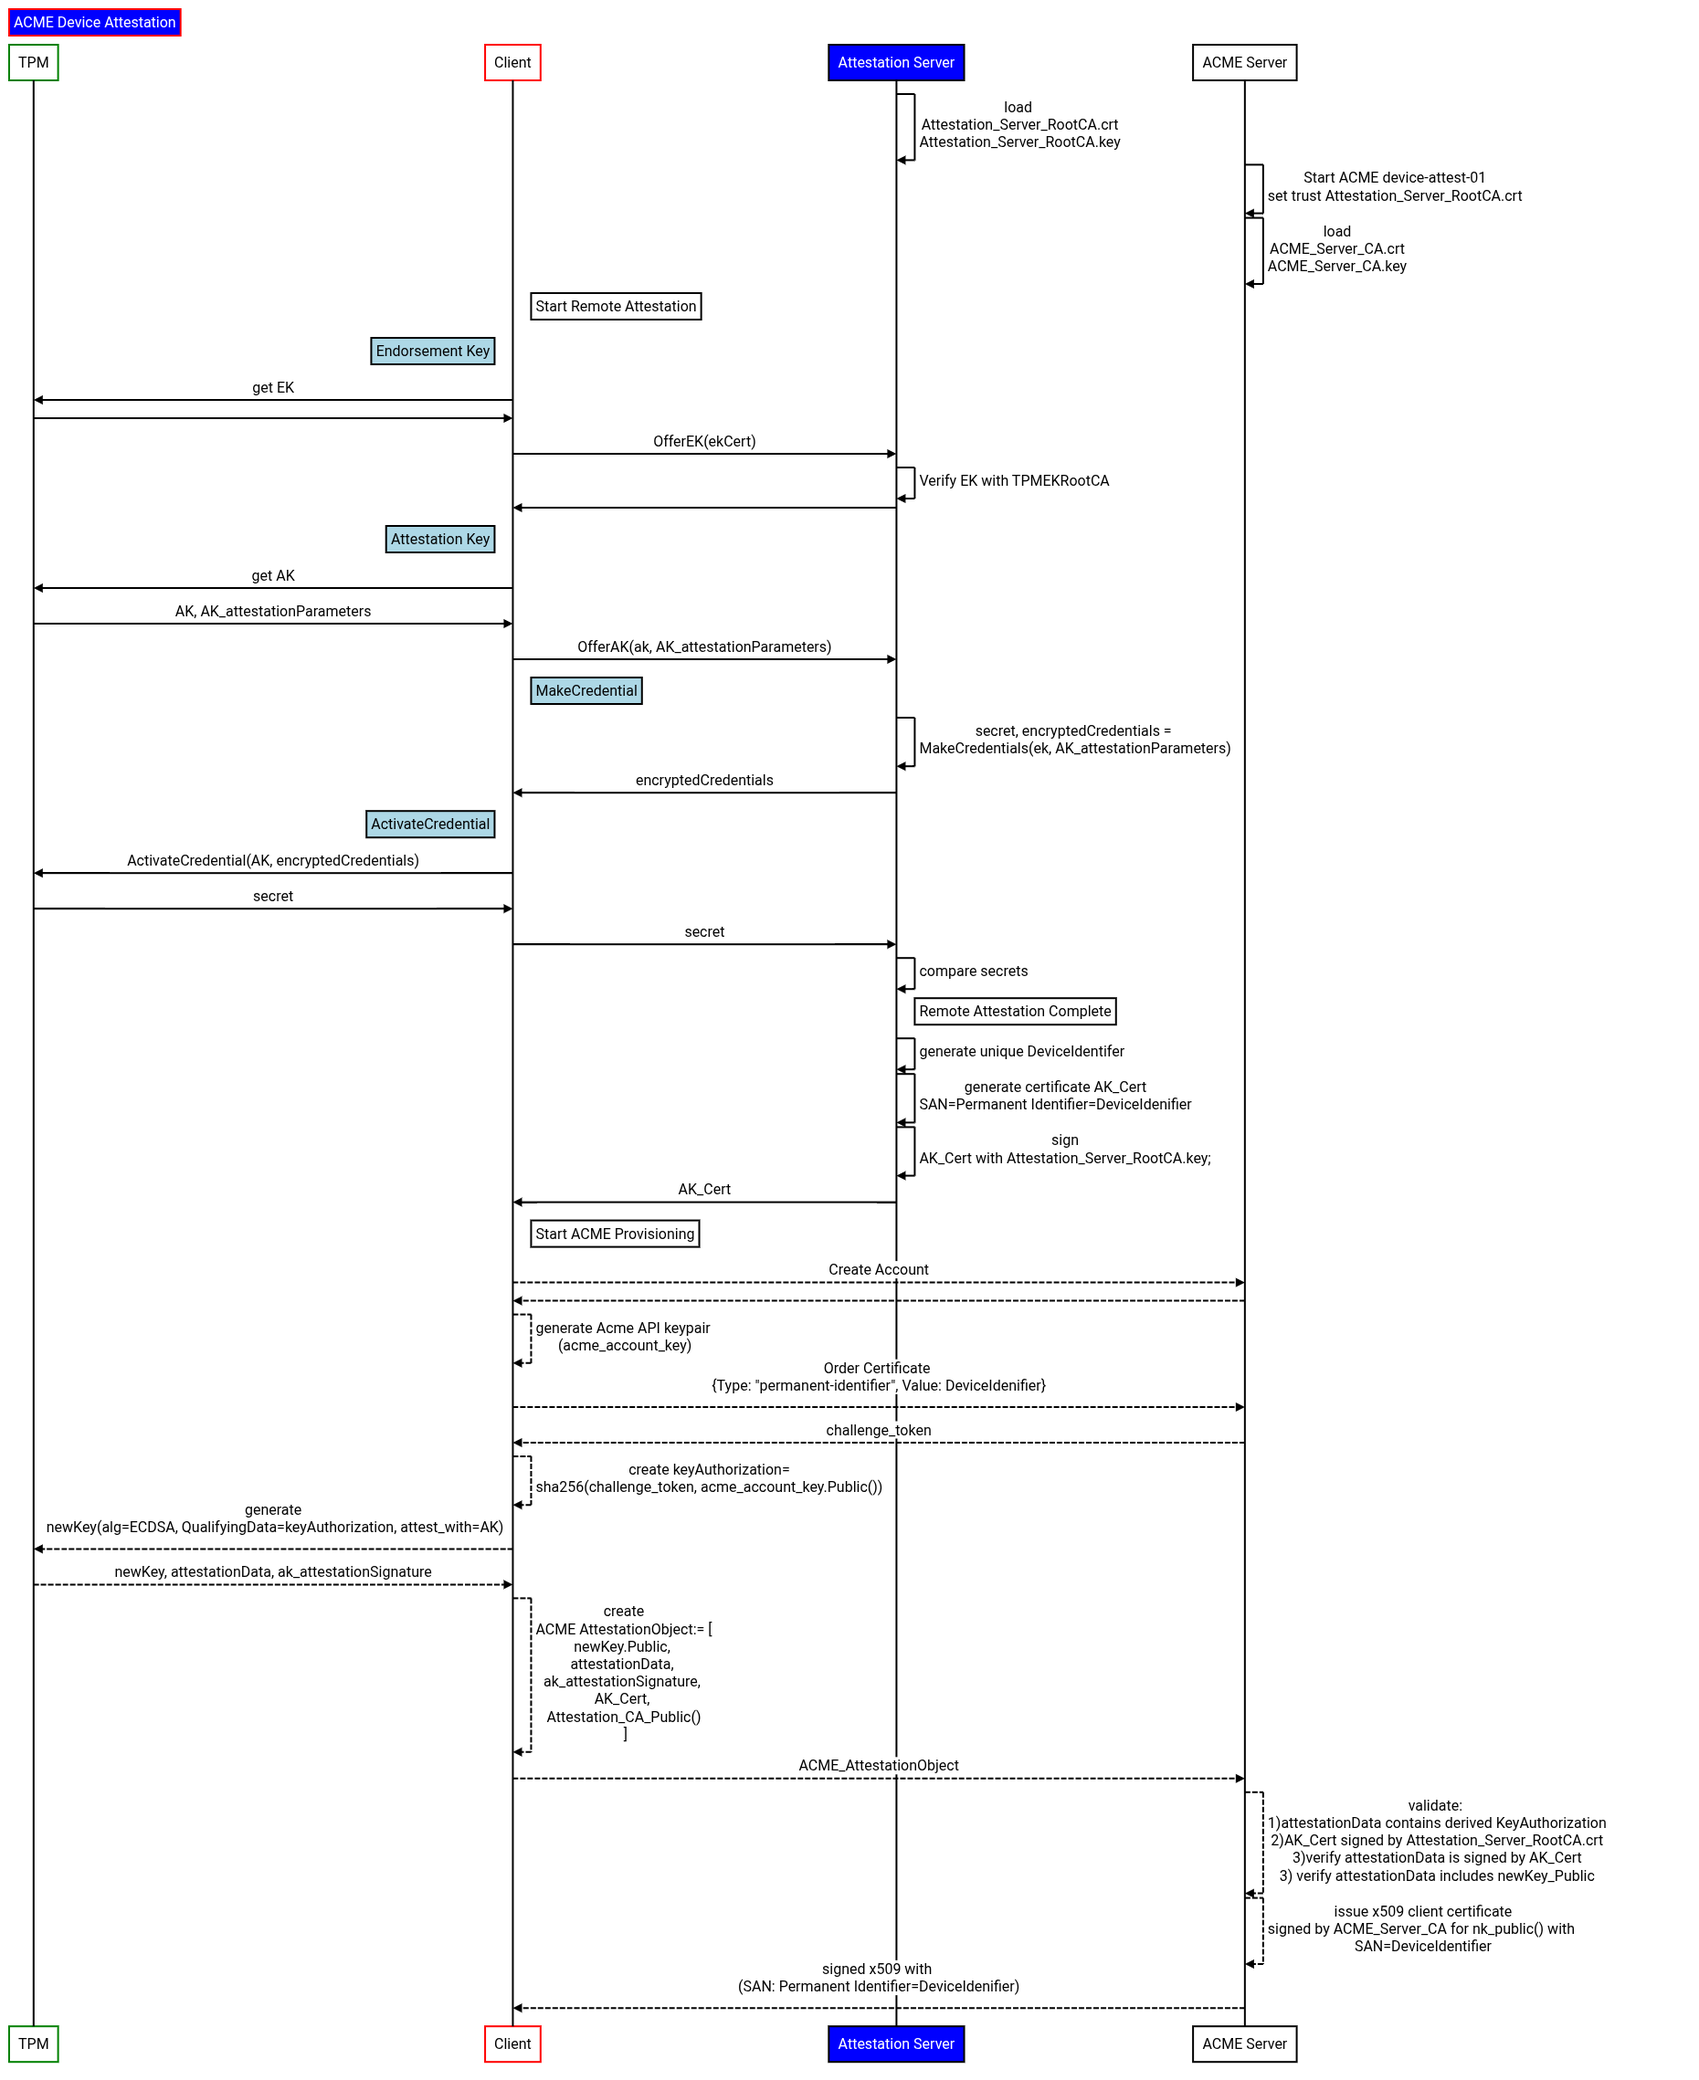
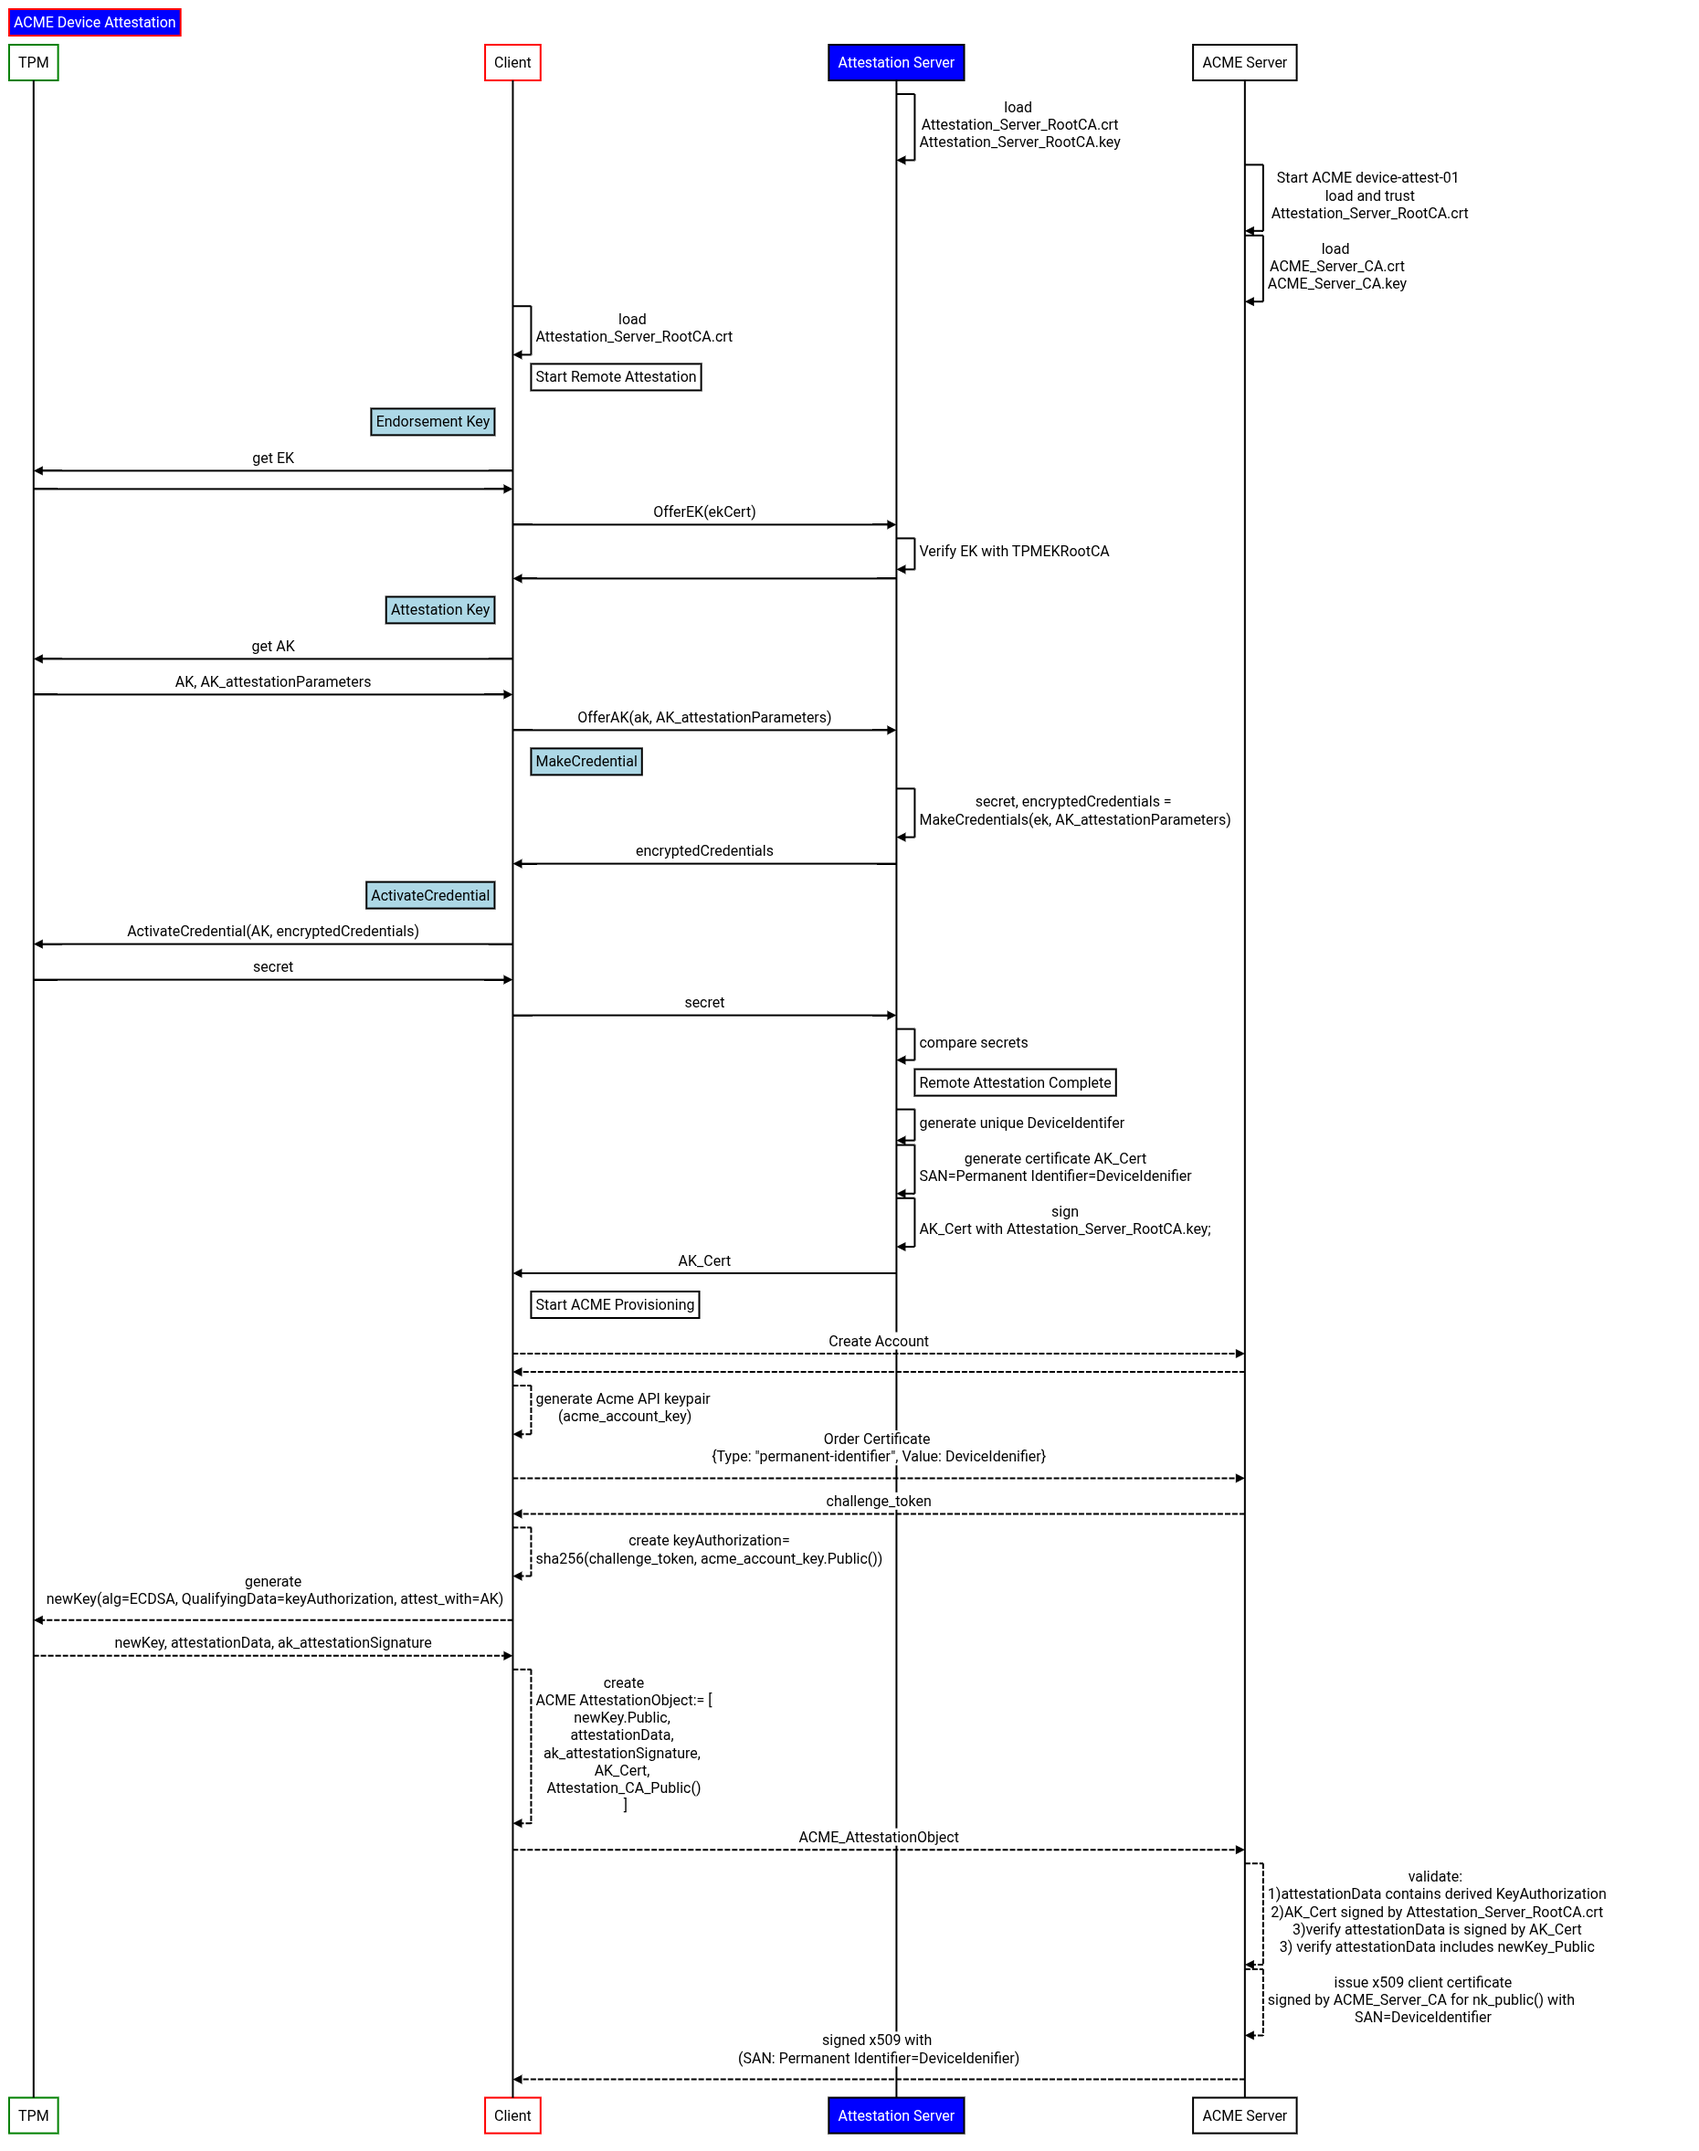
show verifying attestation locally for a demo

diff --git a/tpm/device/client.go b/tpm/device/client.go
@@ -7,16 +7,19 @@ import (
 	"crypto/ecdsa"
 	"crypto/elliptic"
 	"crypto/rand"
+	"crypto/rsa"
 	"crypto/sha256"
 	"crypto/tls"
 	"crypto/x509"
 	"crypto/x509/pkix"
 	"encoding/asn1"
 	"encoding/base64"
+	"encoding/hex"
 	"encoding/json"
 	"encoding/pem"
 	"errors"
 	"io"
+	"math/big"
 	"net"
 	"net/http"
 	"path/filepath"
@@ -222,6 +225,7 @@ func run() int {
 			Algorithm: attest.RSA,
 			Handle:    0x81000001, // SRK, pg 29 https://trustedcomputinggroup.org/wp-content/uploads/TCG-TPM-v2.0-Provisioning-Guidance-Published-v1r1.pdf
 		},
+		Algorithm: attest.RSA,
 	}
 	//akConfig := &attest.AKConfig{}
 	ak, err := tpmh.NewAK(akConfig)
@@ -506,7 +510,7 @@ func run() int {
 		h.Write([]byte(keyauthString))
 		keyauthHash := h.Sum(nil)
 		glog.V(5).Infof("KEYAUTH: %s\n", keyauthString)
-
+		glog.V(5).Infof("sha356sum(KEYAUTH): %s\n", base64.StdEncoding.EncodeToString(keyauthHash))
 		glog.V(5).Infof("Create a TPM based key\n")
 
 		// now create the TLS EC key on the TPM
@@ -559,6 +563,19 @@ func run() int {
 			glog.Errorf("ERROR:  error closing ak  %v", err)
 			return 1
 		}
+		nkCertificationPublicBytes := nk.CertificationParameters().Public
+		nkPublic, err := tpm2.Unmarshal[tpm2.TPMTPublic](nkCertificationPublicBytes)
+		if err != nil {
+			glog.Errorf("error parsing newKey TPMTPublic: %v", err)
+			os.Exit(1)
+		}
+
+		nkName, err := tpm2.ObjectName(nkPublic)
+		if err != nil {
+			glog.Errorf("error parsing newKey Name: %v", err)
+			os.Exit(1)
+		}
+		glog.V(5).Infof("NewKey Name %s\n", hex.EncodeToString(nkName.Buffer))
 
 		var ok bool
 		newPublicKey, ok = nk.Public().(*ecdsa.PublicKey)
@@ -618,6 +635,145 @@ func run() int {
 			},
 			//AuthData: rawAuthData,
 		}
+
+		// ####################### START: regenerate the TPMTPublic from the bytes w'ere gonna send to the acme server
+		// the only reason i'm doing this here is to demonstrate that infact, the ACME server can unilaterally derive and verify
+		// the key specifications (attributes, the TPM "name") and even the public key its going to trust and issue the x509 for
+		// the following steps are not done on the device; its done on the server.  Its just for demonstration here so you understand whats being done
+
+		decodedAttestation, err := tpm2.Unmarshal[tpm2.TPMSAttest](nk.CertificationParameters().CreateAttestation)
+		if err != nil {
+			glog.Errorf("error parsing TPM TPMSAttest: %v", err)
+			return 1
+		}
+		nkCertifyInfo, err := decodedAttestation.Attested.Certify()
+		if err != nil {
+			glog.Errorf("error parsing TPM attestation Certify: %v", err)
+			return 1
+		}
+
+		glog.V(5).Infof("     NewKey derived Name from TPMSAttest: %s\n", hex.EncodeToString(nkCertifyInfo.Name.Buffer))
+		glog.V(5).Infof("     Certify Extra Data from TPMSAttest: %s\n", base64.StdEncoding.EncodeToString(decodedAttestation.ExtraData.Buffer))
+
+		// now dervie the TPM key "name" from the public key and the template we expect to see
+		decodedTPMNTPublic, err := tpm2.Unmarshal[tpm2.TPMTPublic](nk.CertificationParameters().Public)
+		if err != nil {
+			glog.Errorf("error parsing TPM public key structure: %v", err)
+			return 1
+		}
+
+		derivedECCPoint, err := decodedTPMNTPublic.Unique.ECC()
+		if err != nil {
+			glog.Errorf("error deriving ECC Point: %v", err)
+			return 1
+		}
+		ecDetail, err := decodedTPMNTPublic.Parameters.ECCDetail()
+		if err != nil {
+			glog.Errorf("error deriving ECC Parameters: %v", err)
+			return 1
+		}
+		crv, err := ecDetail.CurveID.Curve()
+		if err != nil {
+			glog.Errorf("error deriving ECC Curve: %v", err)
+			return 1
+		}
+		derivedpubKey := &ecdsa.PublicKey{
+			Curve: crv,
+			X:     big.NewInt(0).SetBytes(derivedECCPoint.X.Buffer),
+			Y:     big.NewInt(0).SetBytes(derivedECCPoint.Y.Buffer),
+		}
+		becc, err := x509.MarshalPKIXPublicKey(derivedpubKey)
+		if err != nil {
+			glog.Errorf("error deriving ECC Curve: %v", err)
+			return 1
+		}
+		derivedECCPubPEM := pem.EncodeToMemory(
+			&pem.Block{
+				Type:  "PUBLIC KEY",
+				Bytes: becc,
+			},
+		)
+
+		//  you can use the name and the certification information and signatrue along with the AK to verify it all
+		//  basically, you're using the AK public to verify the attestation now
+		derivedSigTPMTSIGNATURE, err := tpm2.Unmarshal[tpm2.TPMTSignature](nk.CertificationParameters().CreateSignature)
+		if err != nil {
+			glog.Errorf("error parsing TPM  derivedSigTPMTSIGNATURE structure: %v", err)
+			return 1
+		}
+
+		signatureRSA, err := derivedSigTPMTSIGNATURE.Signature.RSASSA()
+		if err != nil {
+			glog.Errorf("error parsing TPM  derivedSigTPMTSIGNATURE ecc: %v", err)
+			return 1
+		}
+
+		hsh := crypto.SHA256.New()
+		hsh.Write(nk.CertificationParameters().CreateAttestation) //signatureRSA.Sig.Buffer)
+
+		err = rsa.VerifyPKCS1v15(akcert.PublicKey.(*rsa.PublicKey), crypto.SHA256, hsh.Sum(nil), signatureRSA.Sig.Buffer)
+		if err != nil {
+			glog.Errorf("Failed to get verify signature digest with ak: %v", err)
+			return 1
+		}
+
+		glog.V(10).Infof("     ECDSA Signature verified\n")
+
+		// this is the template the ACME server should use to recreate the unique TPM "name"
+		//  the name includes the ECC Key attributes
+		expectedECCTemplate := tpm2.TPMTPublic{
+			Type:    tpm2.TPMAlgECC,
+			NameAlg: tpm2.TPMAlgSHA256,
+			ObjectAttributes: tpm2.TPMAObject{
+				SignEncrypt:         true,
+				FixedTPM:            true,
+				FixedParent:         true,
+				SensitiveDataOrigin: true,
+				UserWithAuth:        true,
+			},
+			AuthPolicy: tpm2.TPM2BDigest{},
+
+			Parameters: tpm2.NewTPMUPublicParms(
+				tpm2.TPMAlgECC,
+				&tpm2.TPMSECCParms{
+					CurveID: tpm2.TPMECCNistP256,
+					Scheme: tpm2.TPMTECCScheme{
+						Scheme: tpm2.TPMAlgECDSA,
+						Details: tpm2.NewTPMUAsymScheme(
+							tpm2.TPMAlgECDSA,
+							&tpm2.TPMSSigSchemeECDSA{
+								HashAlg: tpm2.TPMAlgSHA256,
+							},
+						),
+					},
+				},
+			),
+			Unique: tpm2.NewTPMUPublicID(
+				tpm2.TPMAlgECC,
+				&tpm2.TPMSECCPoint{
+					X: tpm2.TPM2BECCParameter{
+						Buffer: derivedpubKey.X.FillBytes(make([]byte, len(derivedpubKey.X.Bytes()))),
+					},
+					Y: tpm2.TPM2BECCParameter{
+						Buffer: derivedpubKey.Y.FillBytes(make([]byte, len(derivedpubKey.Y.Bytes()))),
+					},
+				},
+			),
+		}
+
+		derivedName, err := tpm2.ObjectName(&expectedECCTemplate)
+		if err != nil {
+			glog.Errorf("Failed to get nkDerived Name: %v", err)
+			return 1
+		}
+
+		glog.V(10).Infof("     Regenerated New Key objectAttributes:\n")
+		glog.V(10).Infof("       FixedParent: %t\n", decodedTPMNTPublic.ObjectAttributes.FixedParent)
+		glog.V(10).Infof("       SensitiveDataOrigin: %t\n", decodedTPMNTPublic.ObjectAttributes.SensitiveDataOrigin)
+		glog.V(10).Infof("       FixedTPM: %t\n", decodedTPMNTPublic.ObjectAttributes.FixedTPM)
+		glog.V(10).Infof("       Regenerated Name from PublicKey and template: %s\n", hex.EncodeToString(derivedName.Buffer))
+		glog.V(10).Infof("       Regenerated PublicKey: \n%s\n", derivedECCPubPEM)
+		// ####################### END: regenerate
 
 		encMode, err := cbor.CoreDetEncOptions().EncMode()
 		if err != nil {

diff --git a/README.md b/README.md
@@ -48,7 +48,6 @@ In this sample, once the x609 is issued, you can skip to the [Testing](#testing)
     - [go client](#go-client)
     - [openssl client](#openssl-client)
     - [python client](#python-client)     
-    - [Session Encryption](#session-encryption)
 * [HTTP ACME](#http-acme)    
 
 ---
@@ -120,7 +119,6 @@ For the TPM demo, startup a software tpm `swtpm`:
 
 Before an ACME certificate can get issued, the device must be attested.  This demo involves full TPM Remote Attestation and also verifies the TPM EventLog as part of the Quote-Verify flow.  The following starts a [software TPM](https://github.com/stefanberger/swtpm), and replays the events from a GCP Shielded VM's event log.  The net result is the PCR values the script will mimic a secure boot sequence from a GCP VM.  For more information, see [EventLog Replay](https://github.com/salrashid123/go_tpm_remote_attestation#setup-using-softwretpm)
 
-
 ```bash
 cd tpm/swtpm/
 # rm -rf myvtpm && mkdir myvtpm && swtpm_setup --tpmstate myvtpm --tpm2 --create-ek-cert
@@ -145,6 +143,8 @@ $ go run attestation_server/attestaion_server.go  \
         --expectedPCRMapSHA256=0:a0b5ff3383a1116bd7dc6df177c0c2d433b9ee1813ea958fa5d166a202cb2a85 \
         --v=40 -alsologtostderr
 ```
+
+The current go client and attestation server uses [go-attestation](https://github.com/google/go-tpm) library constructs because its easier.  If you would rather use low level constructs for remote attestation see [TPM Remote Attestation, Quote/Verify, NewKey Certification with TPM2_Direct](https://github.com/salrashid123/tpm2/tree/master/tpm_remote_attestation)
 
 ### Device Client
 
